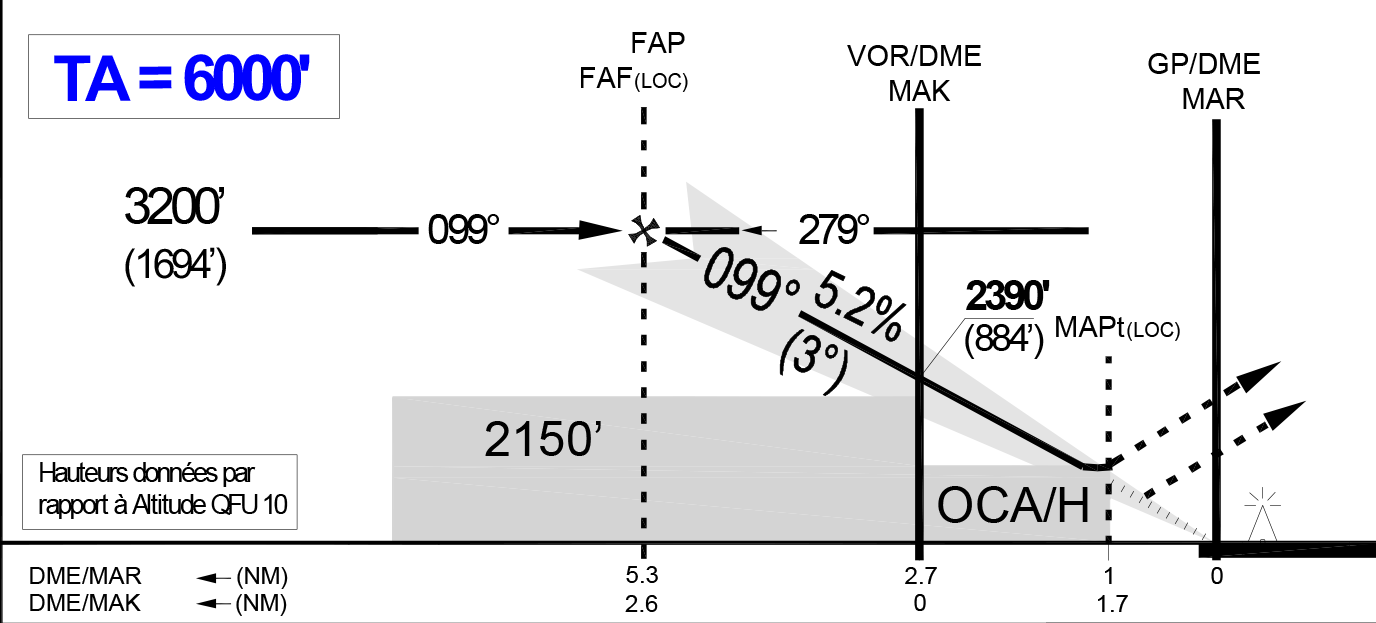
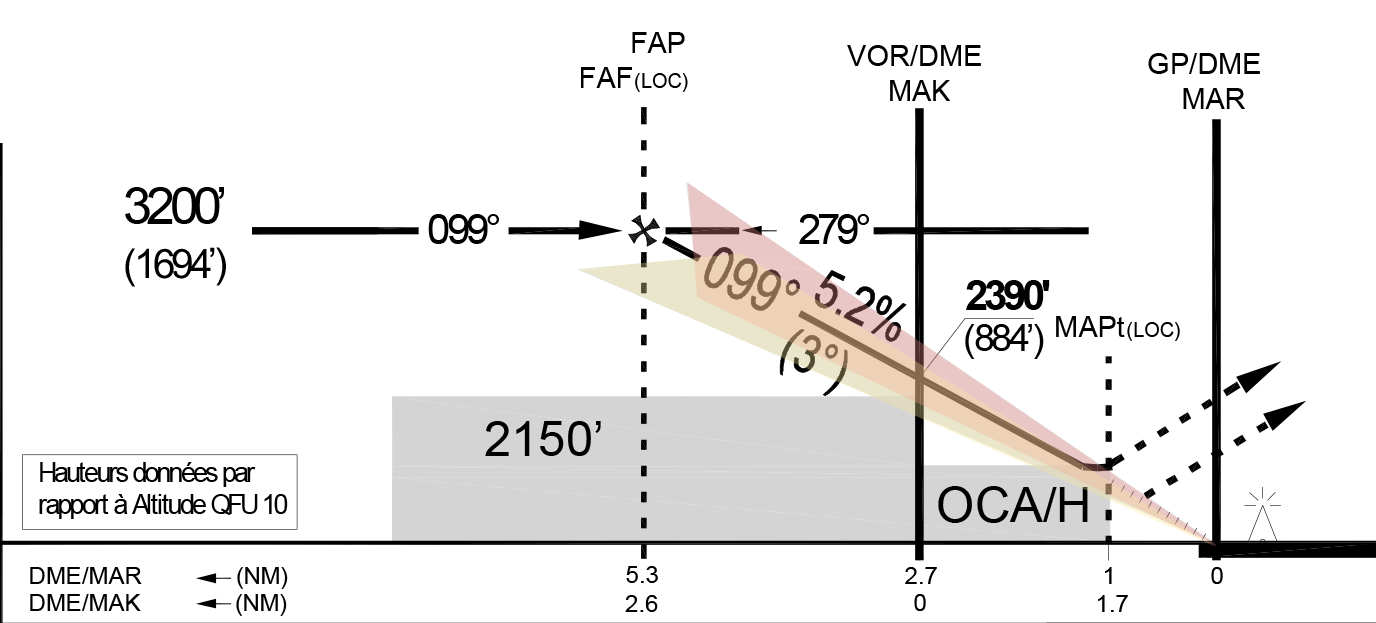
final ver for presentation

Changed region(s): [[0.4062, 0.305, 0.875, 0.8539], [0.0312, 0.0915, 0.25, 0.183]]

diff --git a/aerosimu.js b/aerosimu.js
@@ -14,6 +14,7 @@ function initialize () {
   GP_freq     =  document.querySelector("div.gp-freq > input");
   plane_pos   =  document.querySelector("div.plane-pos > input");
   plane_angle =  document.querySelector("div.plane-angle > input");
+  plane_speed =  document.querySelector("div.plane-speed > input");
 
 
   auto_landing_Btn  =  document.querySelector("div.auto_landing");
@@ -22,7 +23,7 @@ function initialize () {
   document.addEventListener("keydown", keyboard);
 
   auto_landing_ON = true;
-  loc_scope (800);
+  loc_scope (2000);
   onMap.km_rem(5);
   onMap.placeXY (map,plane.position.x,plane.position.y)
   onMap.rotate ( plane_div, plane.angle.phi.d)
@@ -43,7 +44,7 @@ function initialize () {
     loc : {
       elem : loc,
       x : 0,
-      y : 460.7,
+      y : 500.7,
       z : 0,
       x0 : 0,
       y0 : 1,
@@ -98,7 +99,7 @@ function init () {
           optim : 2,
         },
     },
-    speed : 50,
+    speed : 200/4,
     alert : false,
     go : {
       left(angle)  {
@@ -137,29 +138,33 @@ function init () {
         SPEED_ON_CONTACT = undefined;
         slow_speed = final_speed;
       }
+      // if (slow_speed > plane.speed)
+      // {
+      //   return plane.speed;
+      // }
       return slow_speed;
     },
     parking () {
       auto_landing_ON = false;
-      plane.speed = 1;
-      if (plane.position.x > -19.5  & -plane.position.y > stop_point) {
-        if (plane.angle.phi.d < 87) plane.go.right(20*step_time/1000);
-        console.log("phase1    ", plane.position.x,"   ",-plane.position.y);
+      plane.speed = 1.3;
+      if (plane.position.x > -19.5  && -plane.position.y > stop_point) {
+        if (plane.angle.phi.d < 87) plane.go.right(plane.speed * 20 * step_time/1000);
+        // console.log("phase1    ", plane.position.x,"   ",-plane.position.y);
       }
       if (plane.position.x < -19.5  & plane.position.y > -332) {
-        console.log("phase2");
+        // console.log("phase2");
         if (plane.angle.phi.d > 0) {
-          plane.go.left(20*step_time/1000);
+          plane.go.left(plane.speed * 20 * step_time/1000);
         }else {plane.angle.phi.d = 0} 
       }
       if (plane.position.x > -33) {
         
         if (plane.position.x < -19.5 & plane.position.y < -332  & plane.position.y < -335 - 5.3 * 0) {
-          console.log("phase3");
-          if (plane.angle.phi.d < 87) plane.go.right(20*step_time/1000);
+          // console.log("phase3");
+          if (plane.angle.phi.d < 87) plane.go.right(plane.speed * 20 * step_time/1000);
         }
       } else {
-          console.log("phase_stop");
+          // console.log("phase_stop");
           plane.speed = 0;
           document.querySelector(".plane1").className = "plane1"
           spot_empty = false;
@@ -184,7 +189,6 @@ function init () {
         }
         if (Y_map > stop_point) {
           if (spot_empty){
-            console.log("parking")
             plane.parking ();
           }else
           {
@@ -195,19 +199,12 @@ function init () {
     },
     auto_landing () {
       if (auto_landing_ON & loc_captured) {
-        // if (X_of_phi === undefined) {
-        //   rho = (180/Math.PI) * (plane.speed/(plane.angle.phi.optim));
-        //   // X_of_phi = rho *(1-Math.cos(10*Math.PI/180));
-        //   X_of_phi = rho *(1-Math.cos(plane.angle.phi.d*Math.PI/180));
-        //   X_of_phi_sign = 1;
-        // }
-        // if (Z_of_theta === undefined) {
-        //   rho = (180/Math.PI) * (plane.speed/(plane.angle.theta.optim));
-        //   Z_of_theta = rho *(1-Math.cos(plane.angle.theta.d*Math.PI/180)) ;
-        // }
-
         if (plane.position.x > 0) {
-          if ((X_of_phi_sign + 1) % 2){
+          if (plane.angle.phi.d < 10 && correct_course)
+          {
+            plane.go.right(2*plane.angle.phi.optim*step_time/1000)
+          }else {
+            correct_course = false;
             cal_X_of_phi();
           }
           if ( Math.abs(plane.position.x)  < X_of_phi) {
@@ -215,55 +212,29 @@ function init () {
               plane.go.left(plane.angle.phi.optim*step_time/1000)
               if (plane.angle.phi.d < 0) plane.angle.phi.d = 0;
             }
+          }
+        }
+        else {
+          if (plane.angle.phi.d > -10 && correct_course)
+          {
+            plane.go.left(2*plane.angle.phi.optim*step_time/1000)
+          }else {
+            correct_course = false;
+            cal_X_of_phi();
+          }
+          if ( Math.abs(plane.position.x)  < X_of_phi) {
             if (plane.angle.phi.d < 0) {
               plane.go.right(plane.angle.phi.optim*step_time/1000)
               if (plane.angle.phi.d > 0) plane.angle.phi.d = 0;
             }
           }
         }
-        // else {
-        //   if (X_of_phi_sign % 2){
-        //     cal_X_of_phi();
-        //   }
-        //   if ( Math.abs(plane.position.x)  < X_of_phi) {
-        //     if (plane.angle.phi.d > 0) {
-        //       plane.go.left(plane.angle.phi.optim*step_time/1000)
-        //       if (plane.angle.phi.d < 0) plane.angle.phi.d = 0;
-        //     }
-        //     if (plane.angle.phi.d < 0) {
-        //       plane.go.right(plane.angle.phi.optim*step_time/1000)
-        //       if (plane.angle.phi.d > 0) plane.angle.phi.d = 0;
-        //     }
-        //   }
-        // }
-
-        // if ( Math.abs(plane.position.x)  < X_of_phi) {
-        //   if (plane.angle.phi.d > 0) {
-        //     plane.go.left(plane.angle.phi.optim*step_time/1000)
-        //     if (plane.angle.phi.d < 0) plane.angle.phi.d = 0;
-        //   }
-        //   if (plane.angle.phi.d < 0) {
-        //     plane.go.right(plane.angle.phi.optim*step_time/1000)
-        //     if (plane.angle.phi.d > 0) plane.angle.phi.d = 0;
-        //   }
-        // }
-
-        // if ( Math.abs(plane.position.z)  < Z_of_theta) {
-        //   if (plane.angle.theta.d > 3) {
-        //     plane.go.down(plane.angle.theta.optim*step_time/1000)
-        //     if (plane.angle.theta.d < 0) plane.angle.theta.d = 0;
-        //   }
-        //   if (plane.angle.theta.d < 3) {
-        //     plane.go.up(plane.angle.theta.optim*step_time/1000)
-        //     if (plane.angle.theta.d > 0) plane.angle.theta.d = 0;
-        //   }
-        // }
       }
     }
 }
   ms = 0;
   distance = plane.position.y;
-  max_time = 120000;
+  max_time = 120000000;
   speed = 0.05;
   ang = 0 ;
   i =0, j=0;
@@ -273,7 +244,7 @@ function init () {
   max_speed = plane.speed;
   auto_landing_ON = true;
   
-  final_speed = 5;
+  final_speed = 60/10;
 
   X = plane.position.x;
 
@@ -282,12 +253,14 @@ function init () {
 
   plane_pos   =  document.querySelector("div.plane-pos > input");
   plane_angle =  document.querySelector("div.plane-angle > input");
+  plane_speed =  document.querySelector("div.plane-speed > input");
   if (plane_pos)
   {
     set_init_pos_angle();
   }
   X_of_phi_sign = 0;
   cal_X_of_phi();
+  correct_course = true;
 }
 
 init ();
@@ -352,10 +325,11 @@ function set_init_pos_angle() {
   plane.position.y    = parseInt(plane_pos.value.split(',')[1]);
   // plane.position.z    = parseInt(plane_pos.value.split(',')[2]);
   plane.angle.phi.d   = parseInt(plane_angle.value);
+  plane.speed   = parseInt(plane_speed.value) / 4;
 }
 
 function update_indicator (X_max) {
-  if (plane.position.x > X_max) {
+  if (plane.position.x > X_max || (-plane.position.y > stop_point && plane.position.x < -4)) {
     indicatorX.style.display = "none";
   }else{
     indicatorX_pos = plane.position.x*9/X_max
@@ -438,6 +412,8 @@ var rho;
 var X_of_phi;
 var X_of_phi_sign;
 var Z_of_theta;
+var correct_course
+
 
 
 function cal_X_of_phi() {
@@ -454,13 +430,9 @@ function anim () {
   
   set_loc_freq (109.7);
   update_indicator (50);
-  
-  // auto_landing (auto_landing_ON);
-  
-  // plane_landing (stop_point, contact_point , plane.speed);
   plane.landing();
   plane.auto_landing();
-  // console.log(plane.position.x)
+  console.log("bip");
 
   onMap.placeXY (map,plane.position.x,plane.position.y)
   if (plane.position.y > -70 ) {Z_side =  -15 +plane.position.y * 16/1153}

diff --git a/aerosimu.html b/aerosimu.html
@@ -103,6 +103,10 @@
                         <p>plane angle (deg)</p>
                         <input type="text" size="3" value="8">
                     </div>
+                    <div class="plane-speed">
+                        <p>plane speed</p>
+                        <input type="text" size="3" value="300">
+                    </div>
                 </div>
 
                 <div class="lost main-pfd -pfd">

diff --git a/style.css b/style.css
@@ -111,14 +111,14 @@ body{
     height: 400rem;
 }
 .map {
-    left: -1.44%;
+    left: -1.3%;
     position: relative;
     height: 800rem;
     top: -108rem;
     transform: rotate(-0.1deg);
 }
 .mapFAP {
-    opacity: 0.5;
+    /* opacity: 0.5; */
     left: -10.3%;
     position: relative;
     height: 1852rem;
